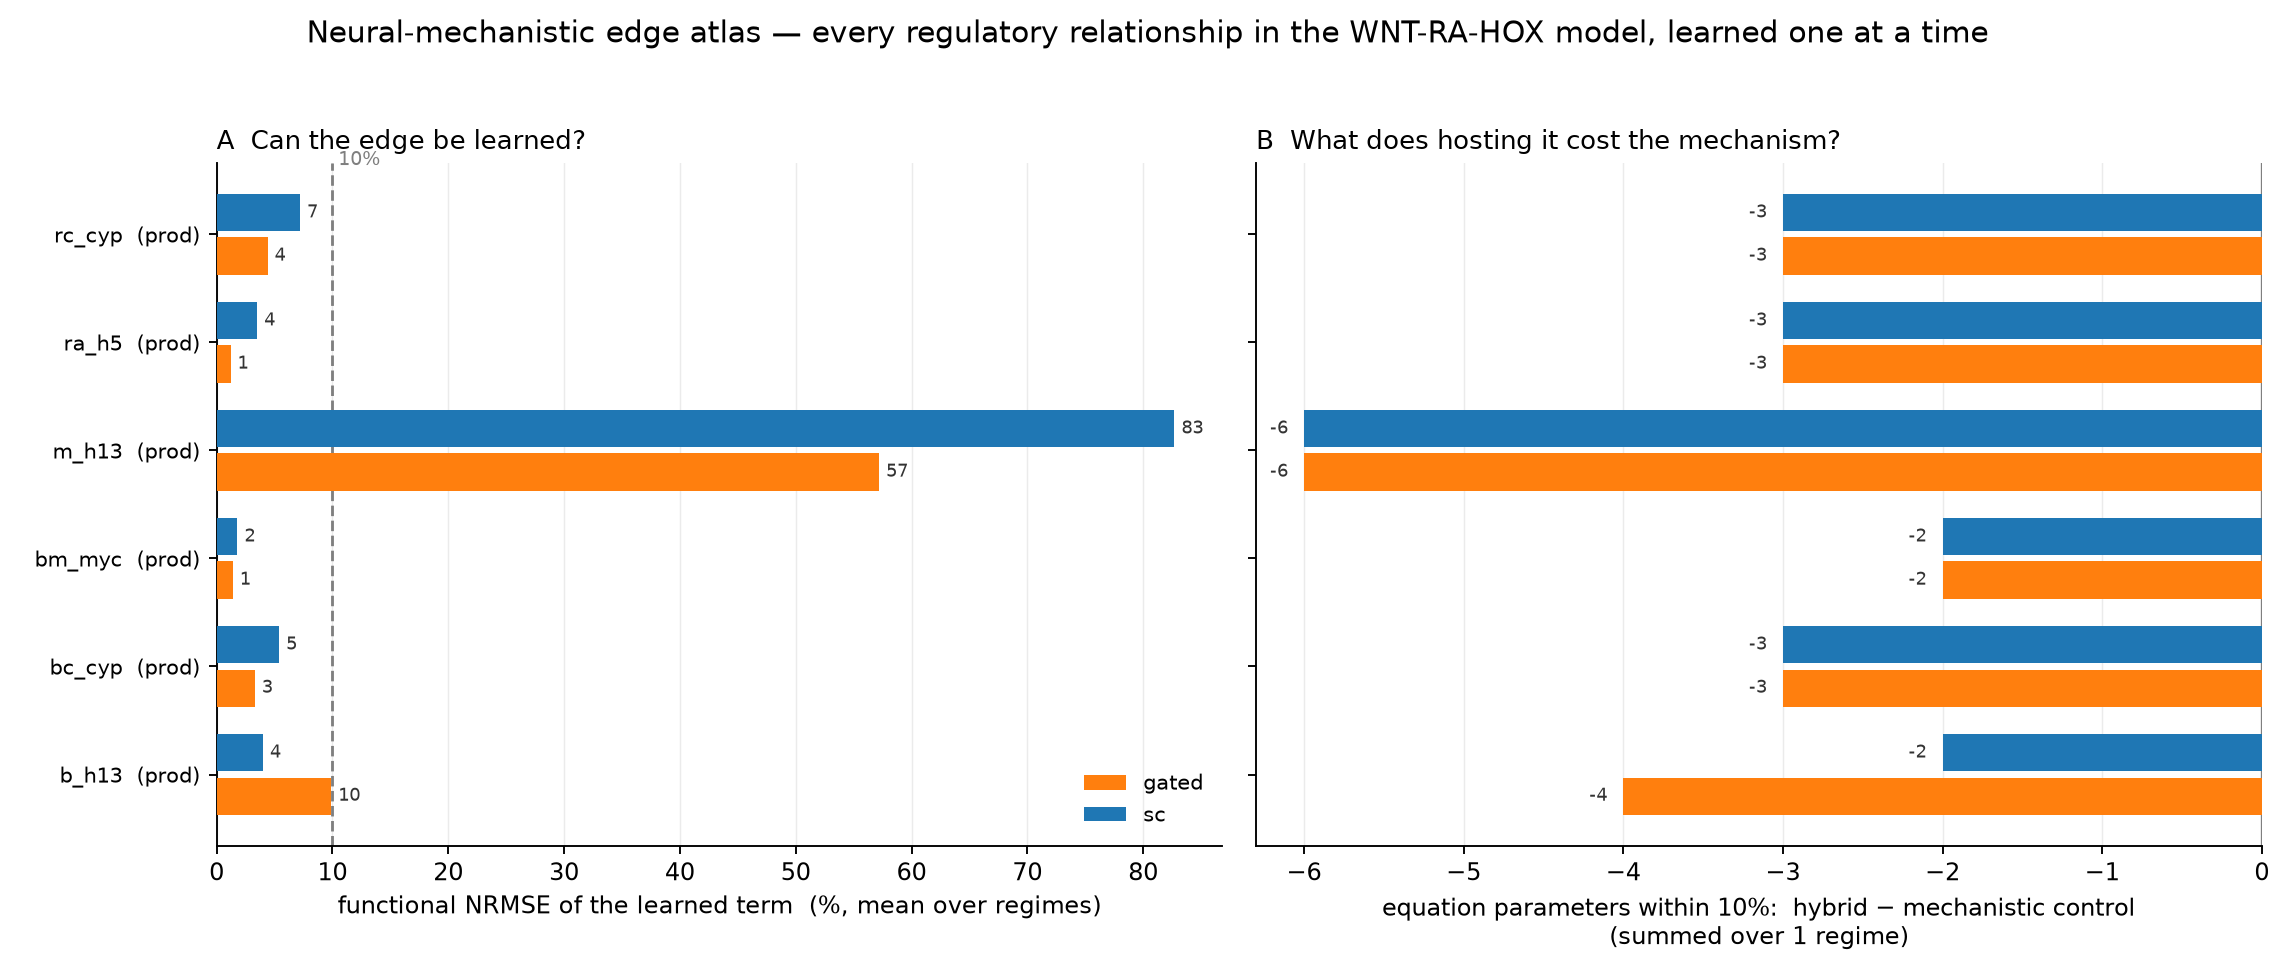
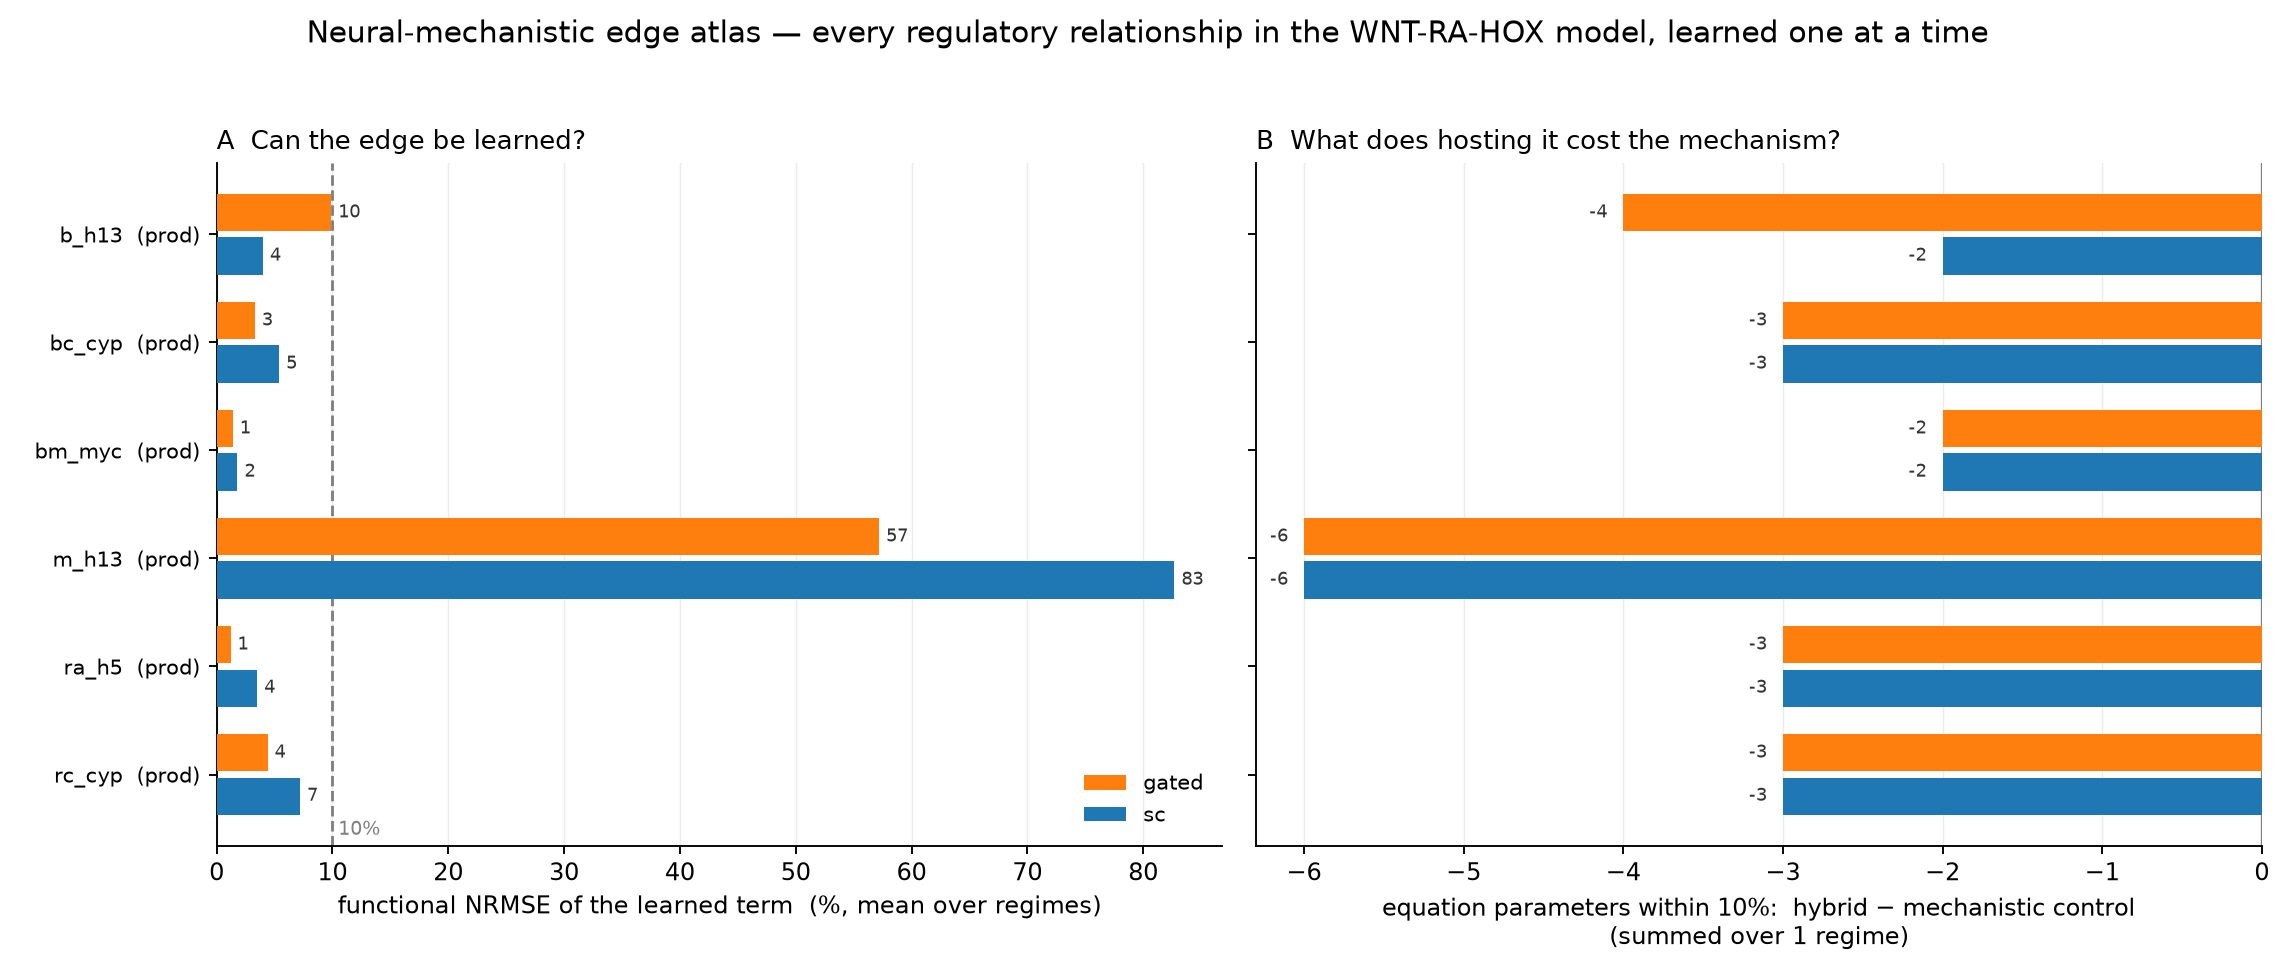
hybrid-ude: fix atlas row order (sharey double-inversion) and marker label
invert_yaxis() was called once per axis inside the styling loop, but
sharey=True means the second call undoes the first -- rows came out
bottom-up and the 10% marker landed on the panel title. Invert once.

diff --git a/PINN-hybrid-ude/aggregate_screen.py b/PINN-hybrid-ude/aggregate_screen.py
@@ -244,9 +244,11 @@ def main(dirs):
         a.set_yticklabels([f"{t}  ({CLASS[term_class(t)]})" for t in labels],
                           fontsize=9)
         a.grid(axis="x", alpha=0.25, lw=0.6, zorder=0)
-        a.invert_yaxis()
         for s in ("top", "right"):
             a.spines[s].set_visible(False)
+    # ONCE, not per-axis: sharey=True means inverting both cancels out and the
+    # rows come back in bottom-up order with the 10% label thrown to the top.
+    axes[0].invert_yaxis()
 
     fig.suptitle("Neural-mechanistic edge atlas — every regulatory "
                  "relationship in the WNT-RA-HOX model, learned one at a time",
